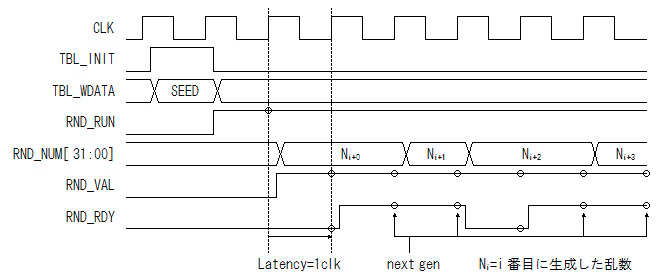
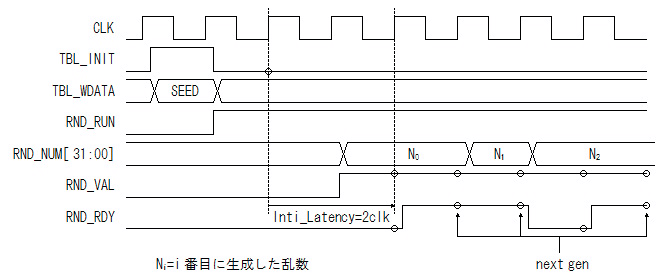
回路規模削減のため初期化時のシーケンスを変更.

diff --git a/Readme.md b/Readme.md
@@ -138,7 +138,7 @@ Table.2 Port  Descriptions
     <td align="center">STD_LOGIC</td>
     <td align="center">1</td>
     <td align="center">in</td>
-    <td>状態テーブル・初期化信号<br />状態テーブルを初期化することを示します状態テーブルを明示的に初期化しない場合はこの信号を&#39;0&#39;にしてください。</td>
+    <td>状態テーブル・初期化信号<br />状態テーブルを初期化することを示します状態テーブルを明示的に初期化しない場合はこの信号を&#39;0&#39;にしてください。TBL_INITを&#39;0&#39;にしてから乱数が生成されるまで2クロックの遅れが生じます。</td>
   </tr>
   <tr>
     <td>TBL_WDATA</td>
@@ -157,6 +157,8 @@ Table.2 Port  Descriptions
 </table>
 
 
+## Timing Diagram
+
 
 
 ![Fig.2 Generate Timing (L=1)](./readme.img/akgeo2.jpg "Fig.2 Generate Timing (L=1)")
@@ -171,8 +173,6 @@ Fig.2 Generate Timing (L=1)
 Fig.3 Generate Timing (L=4)
 
 <br />
-
-
 
 
 ## Resouces and Performance
@@ -372,40 +372,26 @@ architecture RTL of XSADD_RAND_GEN is
 
 ```VHDL
     type      STATUS_VECTOR    is array(integer range <>) of PSEUDO_RANDOM_NUMBER_GENERATOR_TYPE;
-    function  INIT_STATUS(PARAM:  PSEUDO_RANDOM_NUMBER_GENERATOR_TYPE) return STATUS_VECTOR
-    is
+    function  RESET_STATUSES(SEED :integer) return STATUS_VECTOR is
         variable  next_status  :  PSEUDO_RANDOM_NUMBER_GENERATOR_TYPE;
-        variable  status       :  STATUS_VECTOR(L-1 downto 0);
+        variable  statuses     :  STATUS_VECTOR(L-1 downto 0);
     begin
-        next_status := PARAM;
-        for i in status'low to status'high loop
+        next_status := NEW_PSEUDO_RANDOM_NUMBER_GENERATOR(TO_SEED_TYPE(SEED));
+        for i in statuses'low to statuses'high loop
             NEXT_PSEUDO_RANDOM_NUMBER_GENERATOR(next_status);
-            status(i) := next_status;
+            statuses(i) := next_status;
         end loop;
-        return status;
+        return statuses;
     end function;
-    function  INIT_STATUS(DATA :std_logic_vector) return STATUS_VECTOR is
-        variable param : PSEUDO_RANDOM_NUMBER_GENERATOR_TYPE;
-    begin
-        for i in 0 to 3 loop
-            param.status(i) := unsigned(DATA(32*(i+1)-1 downto 32*i));
-        end loop;
-        return INIT_STATUS(param);
-    end function;
-    function  INIT_STATUS(SEED :integer) return STATUS_VECTOR is
-    begin
-        return INIT_STATUS(NEW_PSEUDO_RANDOM_NUMBER_GENERATOR(TO_SEED_TYPE(SEED)));
-    end function;
-
 ```
 
 
 
 ```VHDL
-    signal    curr_status      :  STATUS_VECTOR(L-1 downto 0);
+    signal    curr_statuses    :  STATUS_VECTOR(L-1 downto 0);
     signal    random_number    :  RANDOM_NUMBER_VECTOR(L-1 downto 0);
     signal    random_valid     :  boolean;
-    signal    running          :  boolean;
+    signal    initial_next     :  boolean;
     signal    status_valid     :  boolean;
     signal    status_ready     :  boolean;
 begin
@@ -413,14 +399,12 @@ begin
 
 
 
-
-
 ```VHDL
     process(CLK, RST) begin
         if (RST = '1') then
-            running <= FALSE;
+            initial_next <= TRUE;
         elsif (CLK'event and CLK = '1') then
-            running <= TRUE;
+            initial_next <= (TBL_INIT = '1');
         end if;
     end process;
 
@@ -433,24 +417,26 @@ begin
         variable next_status   :  PSEUDO_RANDOM_NUMBER_GENERATOR_TYPE;
     begin
         if (RST = '1') then
-            curr_status <= INIT_STATUS(SEED);
+            curr_statuses <= RESET_STATUSES(SEED);
         elsif (CLK'event and CLK = '1') then
             if (TBL_INIT = '1') then
-                curr_status  <= INIT_STATUS(TBL_WDATA);
-            elsif (status_valid = TRUE and status_ready = TRUE) then
-                next_status  := curr_status(curr_status'high);
-                for i in curr_status'low to curr_status'high loop
+                for i in 0 to 3 loop
+                    next_status.status(i) := unsigned(TBL_WDATA(32*(i+1)-1 downto 32*i));
+                end loop;
+                curr_statuses(curr_statuses'high) <= next_status;
+            elsif (initial_next = TRUE) or
+                  (status_valid = TRUE and status_ready = TRUE) then
+                next_status := curr_statuses(curr_statuses'high);
+                for i in curr_statuses'low to curr_statuses'high loop
                     NEXT_PSEUDO_RANDOM_NUMBER_GENERATOR(next_status);
-                    curr_status(i) <= next_status;
+                    curr_statuses(i) <= next_status;
                 end loop;
             end if;
         end if;
     end process;
-    status_valid <= (running = TRUE and TBL_INIT = '0' and RND_RUN = '1');
+    status_valid <= (initial_next = FALSE and TBL_INIT = '0' and RND_RUN = '1');
 
 ```
-
-
 
 
 
@@ -462,8 +448,8 @@ begin
         elsif (CLK'event and CLK = '1') then
             random_valid  <= status_valid;
             if (status_valid = TRUE and status_ready = TRUE) then
-                for i in curr_status'range loop
-                    random_number(i) <= GENERATE_TEMPER(curr_status(i));
+                for i in curr_statuses'range loop
+                    random_number(i) <= GENERATE_TEMPER(curr_statuses(i));
                 end loop;
             end if;
         end if;
@@ -475,15 +461,13 @@ begin
 
 
 
-
-
 ```VHDL
     RND_VAL <= '1' when (random_valid = TRUE) else '0';
     RND_NUM_GEN: for i in 0 to L-1 generate
         RND_NUM(32*(i+1)-1 downto 32*i) <= std_logic_vector(random_number(i));
     end generate;
     TBL_RDATA_GEN: for i in 0 to 3 generate
-        TBL_RDATA(32*(i+1)-1 downto 32*i) <= std_logic_vector(curr_status(L-1).status(i));
+        TBL_RDATA(32*(i+1)-1 downto 32*i) <= std_logic_vector(curr_statuses(L-1).status(i));
     end generate;
 end RTL;
 
